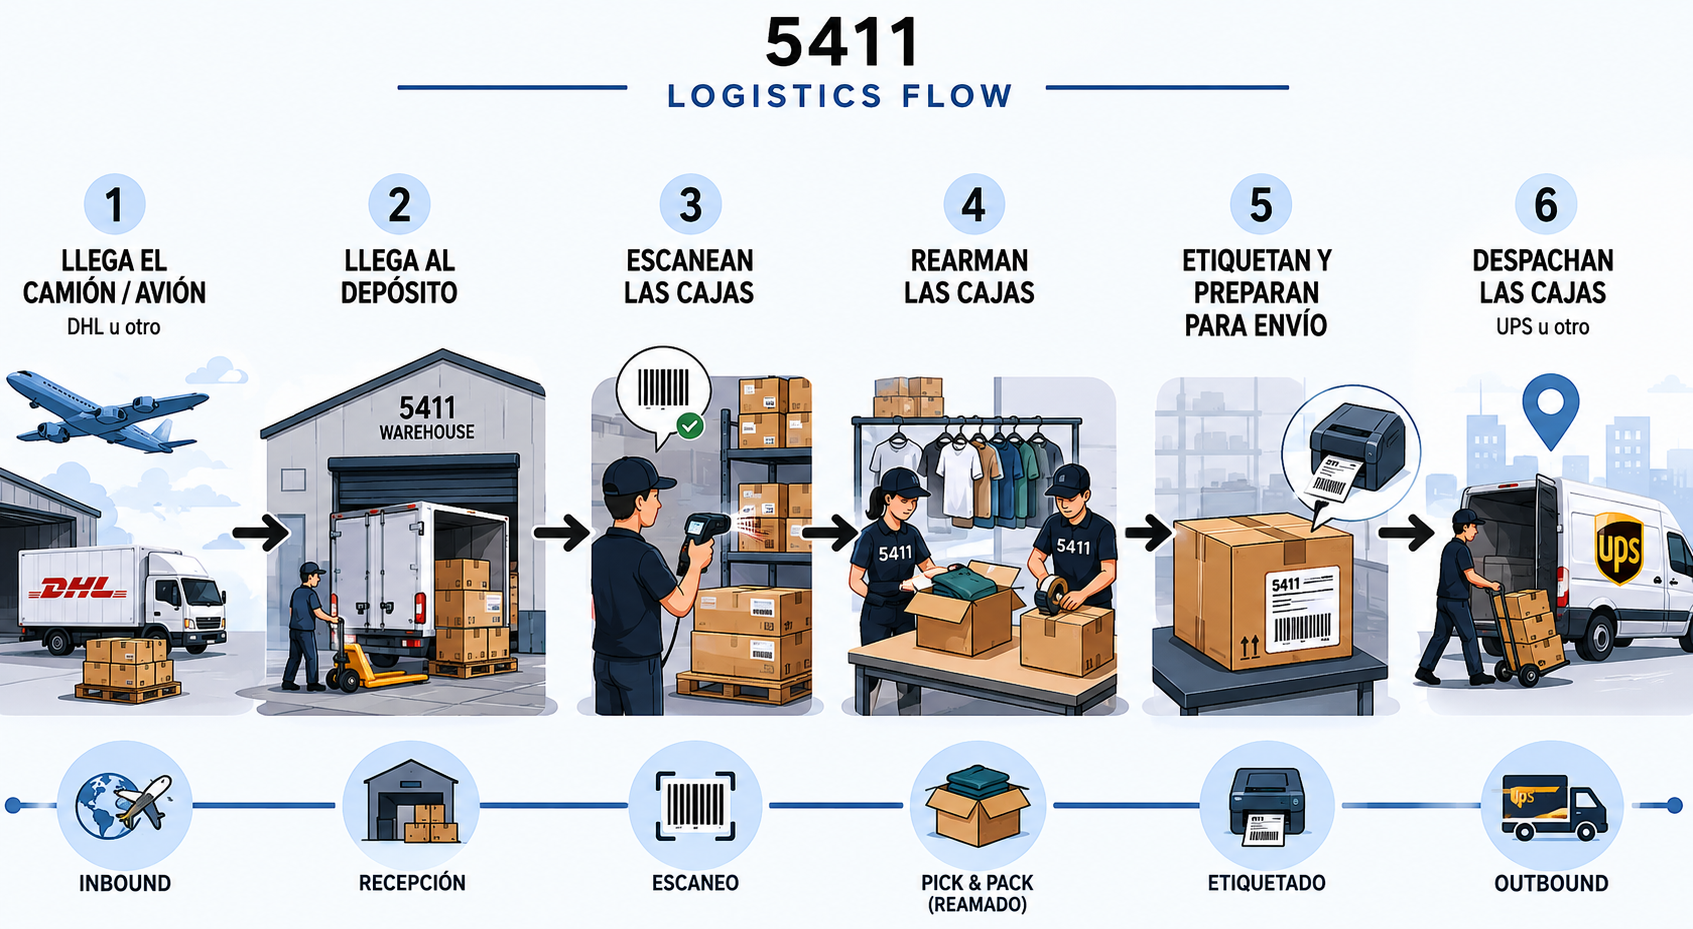
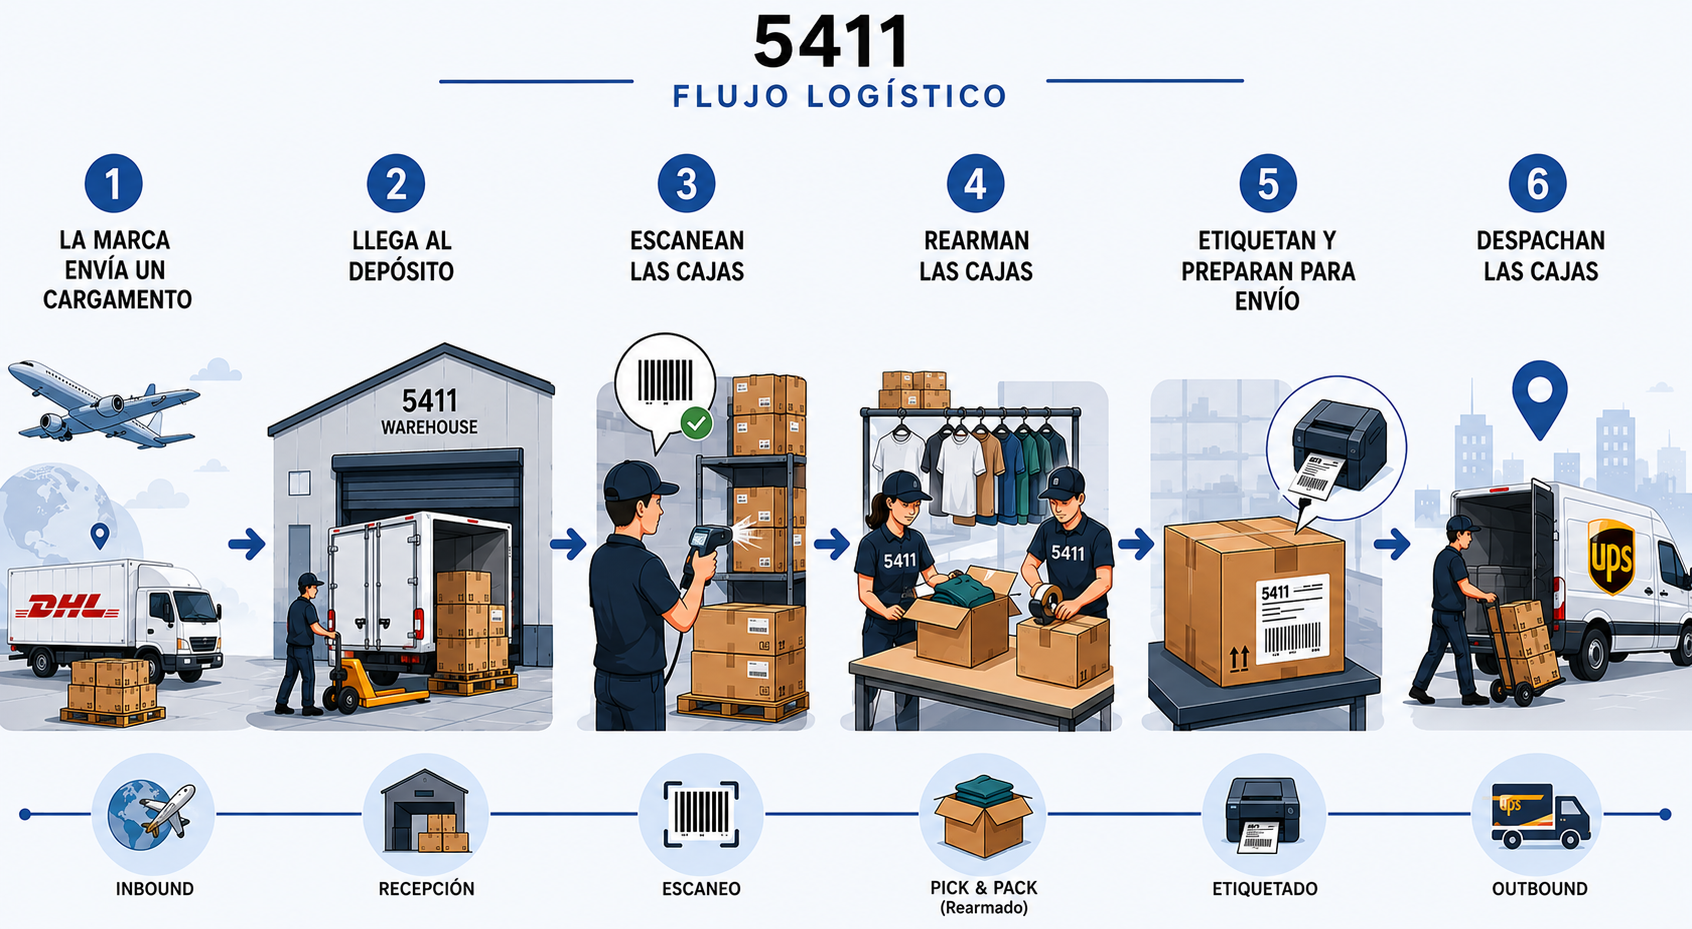
cambios

diff --git a/src/routes/index.tsx b/src/routes/index.tsx
@@ -1,8 +1,9 @@
 import { createFileRoute } from "@tanstack/react-router";
 import { useEffect, useMemo, useState } from "react";
 import logisticsFlowAsset from "@/assets/proceso5411.png";
+import DependeMarca from "@/assets/DependeMarca.png";
 import heroImage from "@/assets/hero.png"; 
-import slackConfirmaLlegadaAsset from "@/assets/slack-confirma-llegada.png.asset.json";
+import slackConfirmaLlegadaAsset from "@/assets/Slack.png";
 import {
   ClipboardList,
   Warehouse,
@@ -102,7 +103,7 @@ const STAGES: Stage[] = [
     outputs: ["ASN cargado en Mintsoft", "Tracker actualizado"],
     dependencies: ["Aviso previo del cliente"],
     warehouse:
-      "El warehouse ve el ASN cargado en el sistema y ya sabe que la mercadería está en camino.",
+      "El cargamento llega al warehouse",
     critical: ["Validar SKU contra el catálogo", "1 ASN por PO — no mezclar"],
     phaseVar: "--phase-1",
   },
@@ -1525,9 +1526,25 @@ function Activity({
   phaseVar: string;
 }) {
   const [open, setOpen] = useState(true);
-  const [imageOpen, setImageOpen] = useState(false);
+  const [imageModal, setImageModal] = useState<{ src: string; alt: string } | null>(null);
   const hasBody = activity.detail || activity.items?.length;
   const showSlackExample = activity.title === "1. Slack confirma llegada";
+
+  const exampleItems: Record<string, { src: string; alt: string }> = {
+    "Llegan por mail": {
+      src: slackConfirmaLlegadaAsset,
+      alt: "Ejemplo de recepción por mail",
+    },
+    "Ya las tenes cuando te mandaron el cargamento": {
+      src: slackConfirmaLlegadaAsset,
+      alt: "Ejemplo de envío de cargamento",
+    },
+    "Las tenes que buscar en la plataforma que usa la marca": {
+      src: slackConfirmaLlegadaAsset,
+      alt: "Ejemplo de plataforma de la marca",
+    },
+  };
+
   return (
     <div className="rounded-xl border border-border bg-background overflow-hidden">
       <button
@@ -1551,17 +1568,36 @@ function Activity({
           )}
           {activity.items && (
             <ul className="mt-2 space-y-1.5">
-              {activity.items.map((it, i) => (
-                <li key={i} className="flex gap-2 text-sm">
-                  <span className="text-primary">•</span>
-                  <span>{it}</span>
-                </li>
-              ))}
+              {activity.items.map((it, i) => {
+                const itemExample = exampleItems[it];
+                return (
+                  <li key={i} className="flex items-start justify-between gap-3 text-sm">
+                    <div className="flex min-w-0 items-start gap-2">
+                      <span className="mt-1 text-primary">•</span>
+                      <span className="min-w-0 break-words">{it}</span>
+                    </div>
+                    {itemExample && (
+                      <button
+                        type="button"
+                        onClick={() => setImageModal(itemExample)}
+                        className="rounded-lg border border-border bg-card px-3 py-2 text-xs font-semibold transition-all hover:bg-secondary hover:scale-[1.02] active:scale-[0.98]"
+                      >
+                        Ver Ejemplo
+                      </button>
+                    )}
+                  </li>
+                );
+              })}
             </ul>
           )}
           {showSlackExample && (
             <button
-              onClick={() => setImageOpen(true)}
+              onClick={() =>
+                setImageModal({
+                  src: slackConfirmaLlegadaAsset,
+                  alt: "Ejemplo de confirmación en Slack",
+                })
+              }
               className="mt-3 inline-flex items-center gap-2 rounded-lg border border-border bg-card px-3 py-2 text-xs font-semibold transition-all hover:bg-secondary hover:scale-[1.02] active:scale-[0.98]"
             >
               <ScanLine className="h-3.5 w-3.5 text-primary" />
@@ -1570,12 +1606,12 @@ function Activity({
           )}
         </div>
       )}
-      {showSlackExample && (
+      {imageModal && (
         <ImageModal
-          open={imageOpen}
-          onClose={() => setImageOpen(false)}
-          src={slackConfirmaLlegadaAsset.url}
-          alt="Ejemplo de confirmación en Slack"
+          open={true}
+          onClose={() => setImageModal(null)}
+          src={imageModal.src}
+          alt={imageModal.alt}
         />
       )}
     </div>
@@ -1692,6 +1728,7 @@ const FLOW_HOTSPOTS: {
 
 function LogisticsFlowMap({ onJump }: { onJump: (id: string) => void }) {
   const [hovered, setHovered] = useState<number | null>(null);
+  const [modalOpen, setModalOpen] = useState(false);
   const active = hovered ?? 1;
   const activeHotspot = FLOW_HOTSPOTS.find((h) => h.number === active)!;
 
@@ -1745,6 +1782,27 @@ function LogisticsFlowMap({ onJump }: { onJump: (id: string) => void }) {
                       : "transparent",
                   }}
                 >
+                  {h.number === 4 && (
+                    <div
+                      role="button"
+                      tabIndex={0}
+                      onClick={(event) => {
+                        event.stopPropagation();
+                        event.preventDefault();
+                        setModalOpen(true);
+                      }}
+                      onKeyDown={(event) => {
+                        if (event.key === "Enter" || event.key === " ") {
+                          event.preventDefault();
+                          event.stopPropagation();
+                          setModalOpen(true);
+                        }
+                      }}
+                      aria-label="Depende de la Marca. Abrir modal"
+                      className="absolute left-1/2 top-60 z-10 -translate-x-1/2 flex items-center gap-2 rounded-full border border-primary/20 bg-primary px-8 py-3 text-sm font-bold text-primary-foreground whitespace-nowrap shadow-lg shadow-primary/20 transition-all duration-200 hover:-translate-y-0.5 hover:scale-105 hover:shadow-xl hover:shadow-primary/30 active:scale-95 cursor-pointer"                    >
+                      Depende de la Marca
+                    </div>
+                  )}
                   <span
                     className="pointer-events-none absolute inset-y-0 left-0 w-px opacity-30"
                     style={{ background: `var(${h.phaseVar})` }}
@@ -1762,6 +1820,15 @@ function LogisticsFlowMap({ onJump }: { onJump: (id: string) => void }) {
             })}
           </div>
         </div>
+
+        {modalOpen && (
+          <ImageModal
+            open={modalOpen}
+            onClose={() => setModalOpen(false)}
+            src={DependeMarca}
+            alt="Depende de la Marca"
+          />
+        )}
 
         {/* Stage detail panel under image */}
         <div className="mt-6 grid gap-4 md:grid-cols-[auto_1fr_auto] md:items-center">